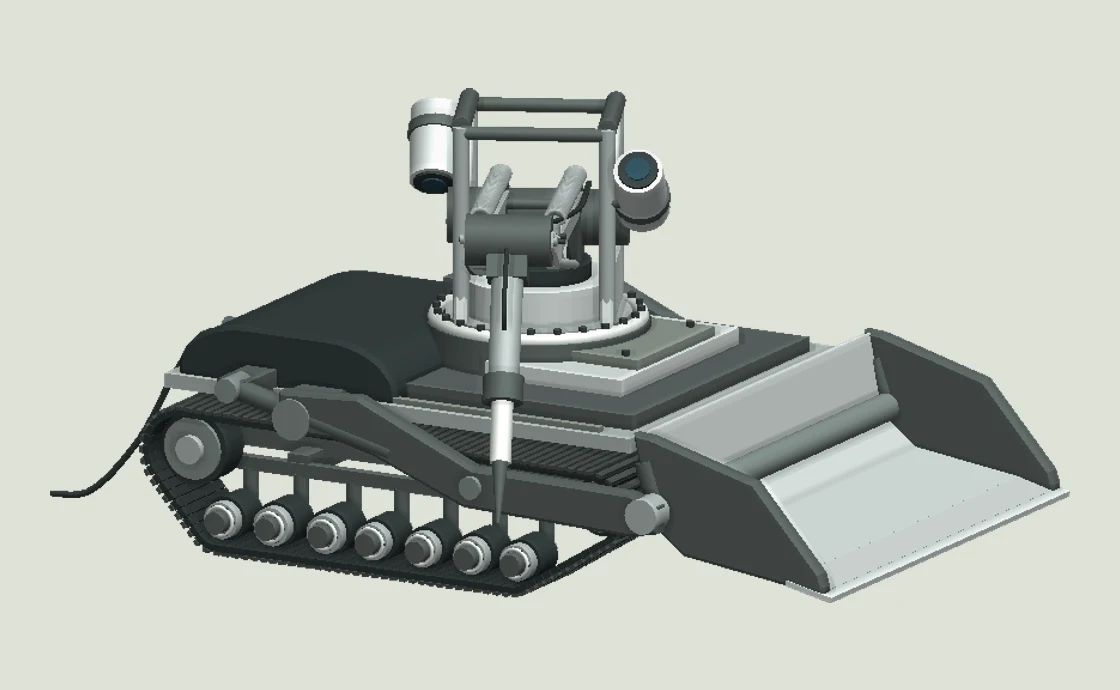
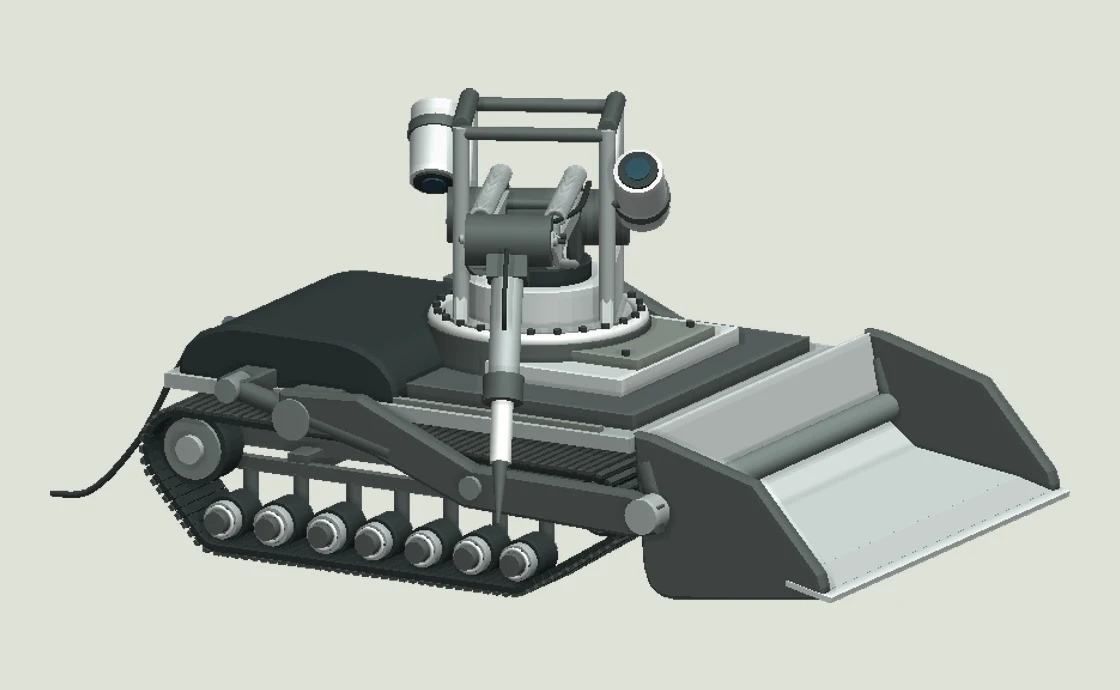
Trace the bucket heel on SKTB 2 and validate the exposed return on SKTB 4

Changed region(s): [[0.5625, 0.7609, 0.7188, 0.8826]]

diff --git a/mobot-engineering-v22.html b/mobot-engineering-v22.html
@@ -42,7 +42,7 @@
     <div class="photo-actions"><button id="match" disabled>Показать позу в 3D</button><label class="check"><input type="checkbox" id="overlay" disabled> Наложить снимок</label></div>
     <p class="note">Наложение служит для визуального сравнения. Перспектива и масштаб камеры не откалиброваны.</p><a id="original" href="http://sktbpr.ru/sites/default/files/foto_album/2.jpg">Первичный источник ↗</a></div></div>
   </section>
-  <section aria-labelledby="compare"><h2 id="compare">Архив · v21 · v22</h2><p>Откройте наложение для сравнения одной детали при одинаковой регистрации камеры.</p><div class="links"><a href="./research/mobot/1987/night-20261118/SKTB4-hood.jpg">Кожух на снегу · №4 ↗</a><a href="./research/mobot/1987/night-20261118/SKTB4-bucket.jpg">Щека ковша на снегу · №4 ↗</a><a href="./research/mobot/1987/night-20261118/SKTB4-boom-cheek.jpg">Концевой шарнир стрелы · №4 ↗</a><a href="./research/mobot/1987/night-20261118/SKTB4-boom-pose.jpg">Положение стрелы на снегу · №4 ↗</a><a href="./research/mobot/1987/night-20261118/SKTB3-jaw.jpg">Щека схвата · №3 ↗</a><a href="./research/mobot/1987/night-20261118/SKTB3-opening.jpg">Раскрытие двух губок · №3 ↗</a><a href="./research/mobot/1987/night-20261118/SKTB9-breaker.jpg">Молоток · №9 ↗</a><a href="./research/mobot/1987/night-20261118/SKTB2-hood.jpg">Кожух перед отправкой · №2 ↗</a></div></section>
+  <section aria-labelledby="compare"><h2 id="compare">Архив · v21 · v22</h2><p>Откройте наложение для сравнения одной детали при одинаковой регистрации камеры.</p><div class="links"><a href="./research/mobot/1987/night-20261118/SKTB4-hood.jpg">Кожух на снегу · №4 ↗</a><a href="./research/mobot/1987/night-20261118/SKTB4-bucket.jpg">Верхняя граница ковша · №4 ↗</a><a href="./research/mobot/1987/night-20261118/SKTB4-bucket-heel.jpg">Нижняя граница ковша · №4 ↗</a><a href="./research/mobot/1987/night-20261118/SKTB4-boom-cheek.jpg">Концевой шарнир стрелы · №4 ↗</a><a href="./research/mobot/1987/night-20261118/SKTB4-boom-pose.jpg">Положение стрелы на снегу · №4 ↗</a><a href="./research/mobot/1987/night-20261118/SKTB3-jaw.jpg">Щека схвата · №3 ↗</a><a href="./research/mobot/1987/night-20261118/SKTB3-opening.jpg">Раскрытие двух губок · №3 ↗</a><a href="./research/mobot/1987/night-20261118/SKTB9-breaker.jpg">Молоток · №9 ↗</a><a href="./research/mobot/1987/night-20261118/SKTB2-hood.jpg">Кожух перед отправкой · №2 ↗</a></div></section>
   <section id="evidence"><div class="section-head"><div><p class="eyebrow">ИССЛЕДОВАТЕЛЬСКАЯ ВЕРСИЯ 22</p><h2 id="passport">Паспорт достоверности</h2></div></div>
   <div class="legend"><div><b>A</b><h3>Документ</h3><p>Сменный схват и два места установки молотка описаны разработчиком.</p></div><div><b>B</b><h3>Фотография</h3><p>Катки видимого борта, оболочка кожуха, наружные элементы стрелы и рабочие органы различимы на снимках.</p></div><div><b>C</b><h3>Гипотеза</h3><p>Размеры, скрытые крепления, углы и кинематика условны. Внутреннее устройство кабелеукладчика и место дозиметра остаются открытыми.</p></div></div>
   <div class="links" id="backup"><a href="./mobot-engineering-v22-passport.json">Паспорт узлов ↗</a><a href="./research/mobot/1987/night-20261118/contact-sweep.json">Проверка 81 положения ↗</a><a href="./research/mobot/1987/night-20261118/side.webp">Боковой контрольный кадр ↗</a><a href="./research/mobot/1987/night-20261118/breaker-arm.webp">Молоток на стреле ↗</a><a href="./research/mobot/1987/night-20261118/breaker-loader.webp">Молоток на погрузчике ↗</a><a href="./mobot-engineering-v21.html">Архив v21 ↗</a></div></section>

diff --git a/mobot-engineering-v22-model.js b/mobot-engineering-v22-model.js
@@ -533,10 +533,14 @@ export function makeMobot(THREE, quality='auto') {
   for(let i=1;i<sectionXY.length;i++)sheetBetween(sectionXY[i-1],sectionXY[i],1.52,.027);
   const blade=sheetBetween([-.64,-.216],sectionXY[1],1.56,.019);
   blade.name='Сплошная рабочая кромка';
+  // The exposed cheek extends below the floor. The rear heel is rounded on SKTB 2;
+  // only the rear segment clears the snow on SKTB 4. Hidden floor folds remain provisional.
+  const cheekLower=[sectionXY[0],[-.072,-.277],[-.049,-.277],[-.021,-.273],
+    [-.001,-.264],[.016,-.249],[.027,-.229],[.039,-.188],sectionXY.at(-1)];
   for(const side of [-1,1]){
     const z=side*.75;
     // Upper rim traced on SKTB 2; opposite cheek thickness and symmetry are inferred.
-    plate(scoopShell,[...sectionXY,[.025,.225],[-.352,.123],[-.590,-.143],[-.602,-.182]],.034,z-.017,m.frame,'bucket');
+    plate(scoopShell,[...cheekLower,[.025,.225],[-.352,.123],[-.590,-.143],[-.602,-.182]],.034,z-.017,m.frame,'bucket');
     beam(scoopShell,[.052,.15,z],[0,0,z],.04,m.frame,'bucket');
   }
   cylinder(scoopShell,.046,.046,1.72,[0,0,0],m.joint,'bucket','z');

diff --git a/research/mobot/1987/night-20261118/bucket-overlay.py b/research/mobot/1987/night-20261118/bucket-overlay.py
@@ -22,3 +22,25 @@ for key, photo, crop in [('SKTB2','before-dispatch',(635,382,998,620)),('SKTB4',
     sheet=Image.new('RGB',(w*3,h))
     for i,p in enumerate(panels):sheet.paste(p,(i*w,0))
     sheet.save(d/f'{key}-bucket.jpg',quality=93)
+
+# Lower cheek, registered by the same two upper/root and front anchors in both panels.
+for key, row in json.loads((d/'bucket-heel.json').read_text()).items():
+    photo = 'before-dispatch' if key=='SKTB2' else 'snow-side'
+    crop = (724,440,955,583) if key=='SKTB2' else (659,452,855,613)
+    im = Image.open(d.parents[3]/'mobot-assets/archive'/f'1987-{photo}.jpg')
+    scale = im.width/1000
+    bounds = tuple(round(x*scale) for x in crop)
+    panel = im.crop(bounds).resize(((crop[2]-crop[0])*3,(crop[3]-crop[1])*3),Image.Resampling.LANCZOS)
+    w,h=panel.size
+    sheet=Image.new('RGB',(2*w,h+30),'#1e2528')
+    for i,(name,label) in enumerate([('before','Published v22'),('after','Refitted cheek')]):
+        pic=panel.copy(); draw=ImageDraw.Draw(pic)
+        point=lambda p: ((p[0]-crop[0])*3,(p[1]-crop[1])*3)
+        draw.line([point(p) for p in row[name]['poly']],fill='cyan',width=3)
+        for p in row['checks']:
+            x,y=point(p); draw.line((x-5,y,x+5,y),fill='orange',width=2);draw.line((x,y-5,x,y+5),fill='orange',width=2)
+        for p in [row['root'],row['tip']]:
+            x,y=point(p);draw.ellipse((x-5,y-5,x+5,y+5),outline='lime',width=2)
+        sheet.paste(pic,(i*w,30))
+        ImageDraw.Draw(sheet).text((i*w+10,8),f"{key}  |  {label}  |  RMS {row[name]['rms']:.2f} px  |  cyan: mesh, orange: archive, green: anchors",fill='white')
+    sheet.save(d/f'{key}-bucket-heel.jpg',quality=93)

diff --git a/research/mobot/1987/night-20261118/QA-LOG.md b/research/mobot/1987/night-20261118/QA-LOG.md
@@ -140,3 +140,6 @@ B — положение и относительная ориентация ви
 
 ### Нижняя граница боковины ковша
 Для нижней границы совмещение по двум ранее зафиксированным точкам осталось прежним. Сохранены [исходные вершины](bucket-cheek-pre-heel.json) и [расчёт](bucket-heel.mjs) расстояния до нижней линии торца экструзии. Отдельно сравнивается длина хорды двух углов в полной камере палубы. Точки нижнего края в регистрацию не входят.
+
+### Скругление боковины · локальная и общая проекции
+В локальной регистрации RMS девяти отметок №2 уменьшился с 26,94 до 1,40 px; шести видимых отметок №4 — с 38,38 до 9,37 px. В парном переборе со смещением каждой координаты заднего угла до 3 px и переднего угла до 6 px на №4 выигрыш сохранился во всех 81 вариантах, минимум 26,76 px. При фиксированной камере палубы и прежних позах RMS тех же отметок на №4 35,33 → 9,08 px, на №2 57,46 → 83,34 px. Общая посадка ковша требует отдельной проверки. Диагностика 81 сочетания по-прежнему подтверждает 42 положения с контактом/выходом за опору, шесть поз чисты. Проверка 222 положений осей пройдена. [№2](SKTB2-bucket-heel.jpg) · [№4](SKTB4-bucket-heel.jpg) · [проекции](bucket-heel.json).

diff --git a/research/mobot/1987/night-20261118/STATE.md b/research/mobot/1987/night-20261118/STATE.md
@@ -114,3 +114,6 @@ PR #21 слит в 52b5e8611293d27b8806d8092fabae8fbd1c57fd. Оценивать 
 
 ### Нижняя граница боковины ковша
 Возобновление после утренней приёмки. Удалённые HEAD ветки 41e1924c79279c6f86d51c76f2b89efbcea3f651 и main 7b8468dc9b73cd244565822b2b6662c0a1ef4b64. Открытых PR нет, прогон 44242800789 успешен. Заморожена опубликованная боковина и размечена нижняя граница. На №4 используется только видимый задний участок. Следом проверить перенос формы с №2.
+
+### Скругление боковины · проверка переноса
+Исходная геометрия сохранена на b7375c2f327aaf63193aed22f6d802a7101343e9. Обновлена нижняя граница обеих боковин с сохранением формы днища, режущей кромки и опор. Видимый участок B, зеркальное повторение и скрытые сгибы C. Остаток локальной сверки №4 38,38 → 9,37 px. В камере палубы на №2 при исходной позе остаток нижней границы ухудшается. Перед выбором выпуска проверить влияние позы отдельно.
